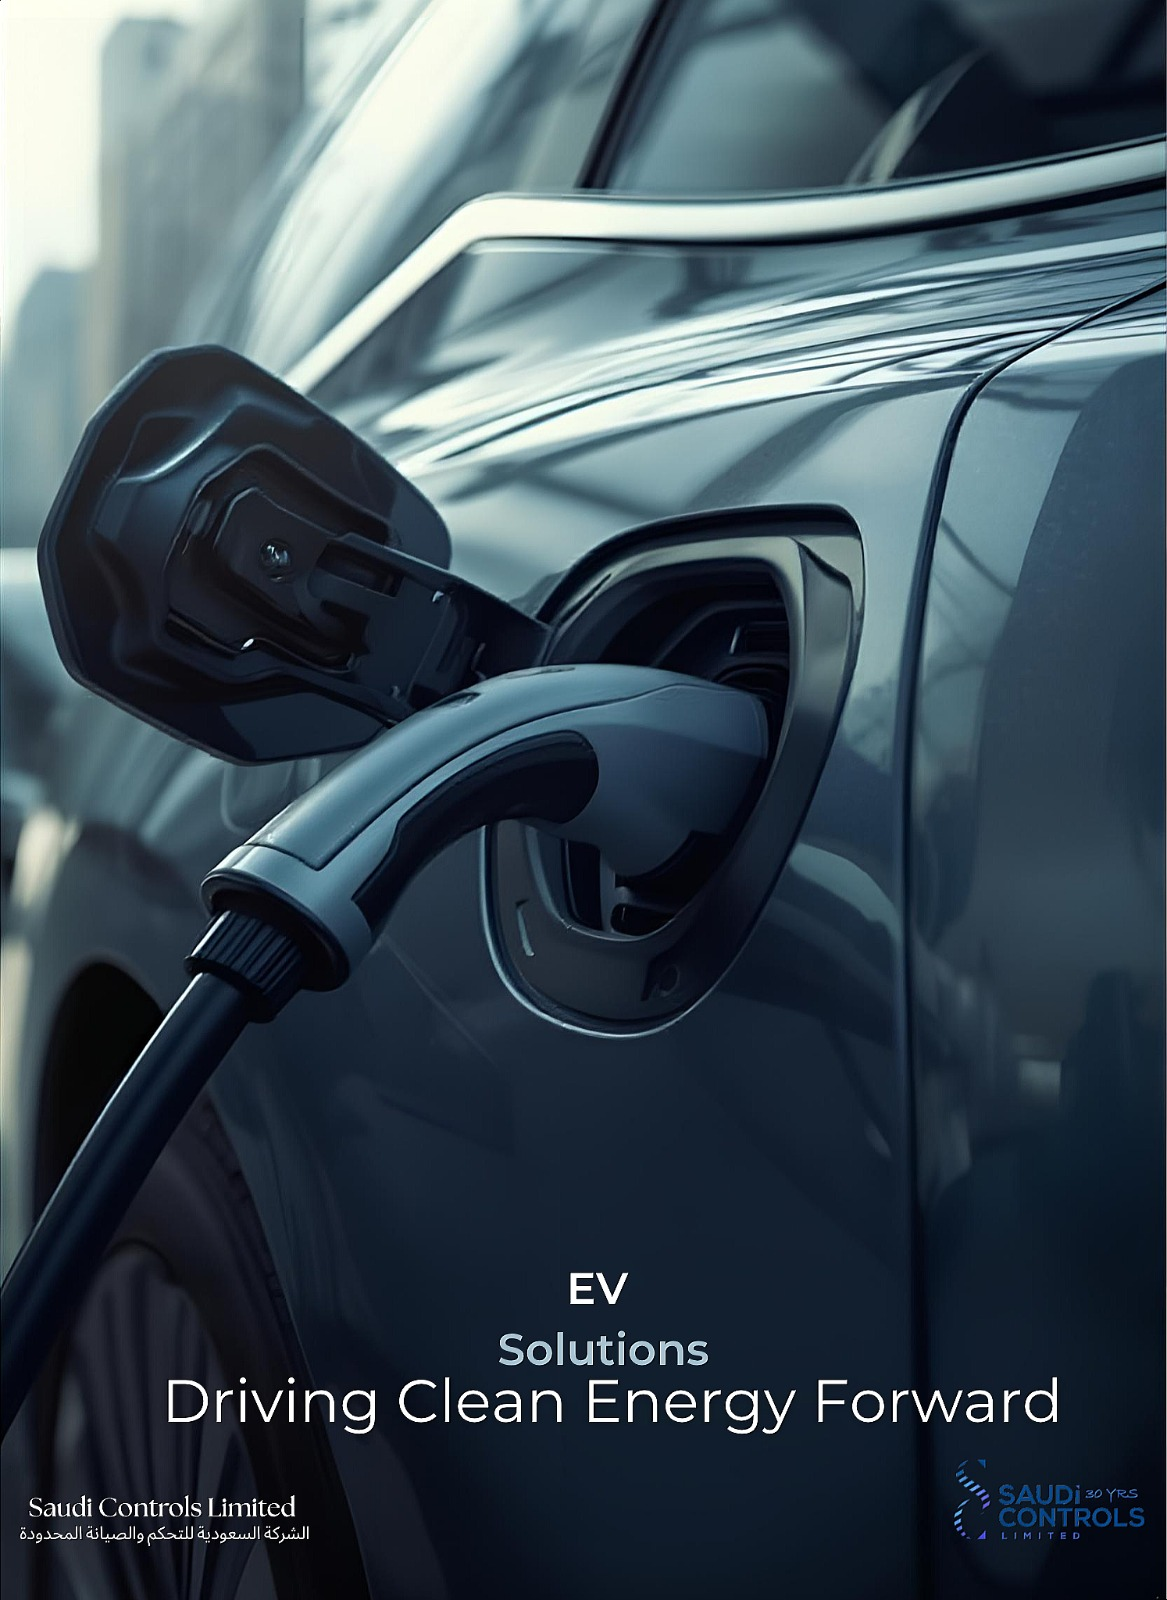
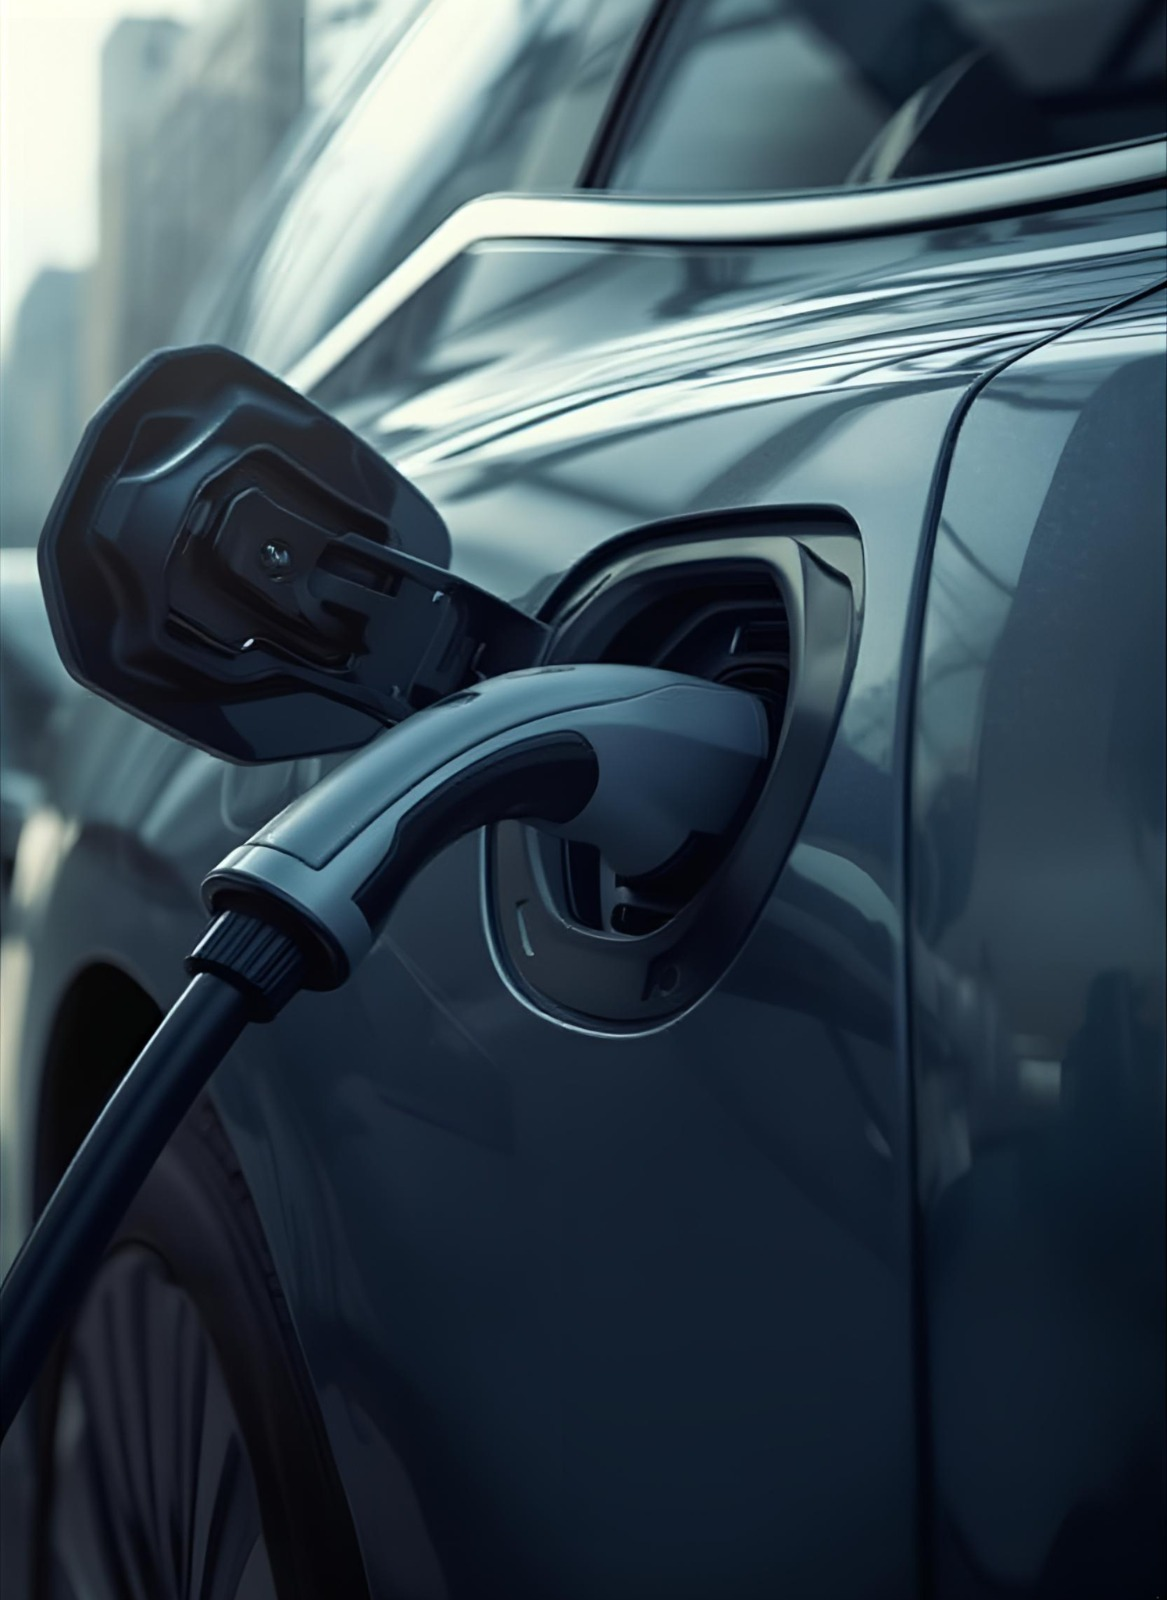
fix: update image file extensions and add new traffic image

diff --git a/src/routes/solutions.tsx b/src/routes/solutions.tsx
@@ -15,7 +15,7 @@ import {
   ShieldCheck,
 } from "lucide-react";
 
-import svcTraffic from "@/assets/svc-traffic.jpg";
+import svcTraffic from "@/assets/svc-traffic.jpeg";
 import svcBms from "@/assets/svc-bms.jpg";
 import svcIot from "@/assets/svc-iot.jpg";
 import svcSecurity from "@/assets/svc-security.jpg";
@@ -164,7 +164,6 @@ const solutions: Solution[] = [
   },
 ];
 
-
 function Hero() {
   const ref = useRef<HTMLDivElement>(null);
   const { scrollYProgress } = useScroll({ target: ref, offset: ["start start", "end start"] });
@@ -173,10 +172,7 @@ function Hero() {
   const yCopy = useTransform(scrollYProgress, [0, 1], [0, 80]);
 
   return (
-    <section
-      ref={ref}
-      className="relative isolate overflow-hidden pt-40 pb-28 md:pt-52 md:pb-36"
-    >
+    <section ref={ref} className="relative isolate overflow-hidden pt-40 pb-28 md:pt-52 md:pb-36">
       <motion.div
         style={{ y: yOrb1 }}
         className="pointer-events-none absolute -top-32 -left-32 h-[28rem] w-[28rem] rounded-full bg-radial-mint opacity-70 blur-2xl"
@@ -216,8 +212,8 @@ function Hero() {
           transition={{ ...fadeUp.transition, delay: 0.25 }}
           className="mt-8 max-w-2xl text-lg text-foreground/65 leading-relaxed"
         >
-          Six practice areas. One disciplined engineering approach. We design,
-          integrate and operate the control systems that quietly run modern cities.
+          Six practice areas. One disciplined engineering approach. We design, integrate and operate
+          the control systems that quietly run modern cities.
         </motion.p>
 
         <motion.div
@@ -253,11 +249,7 @@ function SolutionBlock({ s, i }: { s: Solution; i: number }) {
   const reverse = i % 2 === 1;
 
   return (
-    <section
-      id={s.id}
-      ref={ref}
-      className="relative border-t border-foreground/10 py-24 md:py-36"
-    >
+    <section id={s.id} ref={ref} className="relative border-t border-foreground/10 py-24 md:py-36">
       <div className="mx-auto grid max-w-7xl grid-cols-1 gap-14 px-6 lg:grid-cols-12">
         {/* copy */}
         <div className={`lg:col-span-5 ${reverse ? "lg:order-2" : ""}`}>
@@ -310,8 +302,8 @@ function SolutionBlock({ s, i }: { s: Solution; i: number }) {
             transition={{ ...fadeUp.transition, delay: 0.4 }}
             className="mt-10 border-l-2 border-accent/50 pl-5 font-display text-lg italic text-foreground/75"
           >
-            “Our commitment to excellence and innovation drives us to deliver the
-            best outcomes for our clients.”
+            “Our commitment to excellence and innovation drives us to deliver the best outcomes for
+            our clients.”
           </motion.blockquote>
         </div>
 
@@ -353,9 +345,7 @@ function SolutionBlock({ s, i }: { s: Solution; i: number }) {
               transition={{ duration: 0.9, delay: 0.35, ease: EASE }}
               className="col-span-2 rounded-3xl border border-foreground/10 bg-secondary/50 p-5 backdrop-blur"
             >
-              <div className="text-xs uppercase tracking-[0.18em] text-foreground/50">
-                Outcome
-              </div>
+              <div className="text-xs uppercase tracking-[0.18em] text-foreground/50">Outcome</div>
               <div className="mt-2 font-display text-3xl italic">
                 {["+38%", "−42%", "24/7", "99%", "50+", "15+"][i]}
               </div>

diff --git a/src/routes/index.tsx b/src/routes/index.tsx
@@ -25,7 +25,7 @@ import svcEv from "@/assets/svc-ev.jpg";
 import svcEv2 from "@/assets/svc-ev-2.jpeg";
 import svcBms from "@/assets/svc-bms.jpg";
 import svcBms2 from "@/assets/svc-bms-2.jpeg";
-import svcTraffic from "@/assets/svc-traffic.jpg";
+import svcTraffic from "@/assets/svc-traffic.jpeg";
 import svcTraffic2 from "@/assets/svc-traffic-2.jpeg";
 import svcIot from "@/assets/svc-iot.jpg";
 import svcIot3 from "@/assets/svc-iot-3.jpg";
